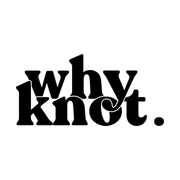
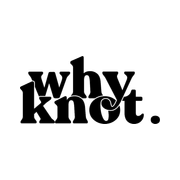
QA pass: fix broken size guide, dead nav links, font optical sizing, OG images, drop unused italic font (-146KB), tune image delivery

Changed region(s): [[0.0833, 0.2778, 0.9167, 0.7222]]

diff --git a/src/components/sections/FooterSection.tsx b/src/components/sections/FooterSection.tsx
@@ -1,5 +1,6 @@
 import Image from "next/image";
 import Link from "next/link";
+import { InstagramIcon, WhatsAppIcon } from "@/components/icons";
 import {
   BUSINESS_NAME,
   INSTAGRAM_HANDLE,
@@ -65,23 +66,29 @@ export function FooterSection() {
             <div className="uppercase text-[11px] tracking-[0.18em] font-semibold text-[var(--an-gold-light)] mb-3">
               Contact
             </div>
-            <a
-              href={`https://wa.me/${WHATSAPP_NUMBER}`}
-              target="_blank"
-              rel="noreferrer"
-              className="block py-1 text-[var(--an-cream)]/70 hover:text-white transition"
-            >
-              WhatsApp us
-            </a>
-            <a
-              href={INSTAGRAM_URL}
-              target="_blank"
-              rel="noreferrer"
-              className="block py-1 text-[var(--an-cream)]/70 hover:text-white transition"
-            >
-              {INSTAGRAM_HANDLE}
-            </a>
-            <div className="py-1 text-[var(--an-cream)]/70">{LOCATION}</div>
+            <div className="flex items-center gap-3 py-1">
+              <a
+                href={`https://wa.me/${WHATSAPP_NUMBER}`}
+                target="_blank"
+                rel="noreferrer"
+                aria-label="Message us on WhatsApp"
+                title="WhatsApp"
+                className="flex h-10 w-10 items-center justify-center rounded-full border border-white/15 text-[var(--an-cream)]/80 transition-colors hover:border-[var(--an-wa)] hover:bg-[var(--an-wa)] hover:text-white"
+              >
+                <WhatsAppIcon className="w-[18px]" />
+              </a>
+              <a
+                href={INSTAGRAM_URL}
+                target="_blank"
+                rel="noreferrer"
+                aria-label={`Follow us on Instagram, ${INSTAGRAM_HANDLE}`}
+                title={INSTAGRAM_HANDLE}
+                className="flex h-10 w-10 items-center justify-center rounded-full border border-white/15 text-[var(--an-cream)]/80 transition-colors hover:border-[var(--an-gold)] hover:bg-[var(--an-gold)] hover:text-white"
+              >
+                <InstagramIcon className="w-[18px]" />
+              </a>
+            </div>
+            <div className="pt-2 text-[var(--an-cream)]/70">{LOCATION}</div>
           </div>
         </div>
         <div className="mt-10 pt-6 border-t border-white/10 flex flex-col md:flex-row gap-2 items-center justify-between text-[11.5px] text-[var(--an-cream)]/50">

diff --git a/src/lib/content.tsx b/src/lib/content.tsx
@@ -12,11 +12,11 @@ export function waLink(message: string) {
 export const PLAN_LINK = waLink("Hello Whyknot! I'd like to order from your collection ✨");
 
 export const NAV_LINKS = [
-  { label: "New In", href: "#shop" },
-  { label: "Dresses", href: "#shop" },
-  { label: "Tees", href: "#shop" },
-  { label: "One Size", href: "#shop" },
-  { label: "Our Story", href: "#story" },
+  { label: "New In", href: "/#shop" },
+  { label: "Dresses", href: "/#shop" },
+  { label: "Tees", href: "/#shop" },
+  { label: "One Size", href: "/#shop" },
+  { label: "Our Story", href: "/#story" },
   { label: "Contact", href: "/contact" },
 ];
 
@@ -69,7 +69,7 @@ export const GOVERNORATES = [
 ];
 
 export const SIZE_GUIDE = [
-  { size: "S", bust: "84-102", waist: "64-84", hips: "90-108" },
+  { size: "One Size", bust: "84-102", waist: "64-84", hips: "90-108" },
   { size: "S", bust: "86", waist: "66", hips: "92" },
   { size: "M", bust: "90", waist: "70", hips: "96" },
   { size: "L", bust: "96", waist: "76", hips: "102" },
@@ -89,25 +89,25 @@ export const FEATURED_CATEGORIES: FeaturedCategory[] = [
   {
     name: "Dresses",
     piece: "Boho Maxi Dresses",
-    startFrom: "$65",
+    startFrom: "$72",
     image: "/images/whyknot/santorini-maxi-coral.jpg",
   },
   {
     name: "Tees",
     piece: "Statement Tees",
-    startFrom: "$32",
+    startFrom: "$42",
     image: "/images/whyknot/evil-eye-tee-white.jpg",
   },
   {
     name: "Shirts",
     piece: "Mimoto Made in Japan",
-    startFrom: "$78",
+    startFrom: "$58",
     image: "/images/whyknot/mimoto-crowd-shirt-sky.jpg",
   },
   {
     name: "Summer",
     piece: "Hats & Loungewear",
-    startFrom: "$28",
+    startFrom: "$38",
     image: "/images/whyknot/sun-hat-blue.jpg",
   },
 ];
@@ -149,7 +149,7 @@ export const PRODUCTS: Product[] = [
         rating: 5,
         date: "February 2026",
         title: "The blue is even prettier in person",
-        text: "Ordered the Aegean Blue after seeing it on their page. Arrived in two days, packed really nicely. Straps are adjustable which helped a lot.",
+        text: "Ordered the Aegean Blue after seeing it on Instagram. Arrived in two days, packed really nicely. Straps are adjustable which helped a lot.",
         size: "L",
       },
       {

diff --git a/src/app/layout.tsx b/src/app/layout.tsx
@@ -7,7 +7,9 @@ const fraunces = Fraunces({
   variable: "--font-cormorant",
   subsets: ["latin"],
   weight: "variable",
-  style: ["normal", "italic"],
+  // No italic face: emphasis is weight + colour (see globals.css), so the
+  // 146KB italic file was downloading on every page and never rendering.
+  style: ["normal"],
   axes: ["SOFT", "WONK", "opsz"],
 });
 
@@ -17,7 +19,10 @@ const dmSans = DM_Sans({
   weight: ["300", "400", "500", "700"],
 });
 
+export const SITE_URL = "https://whyknot-demo.vercel.app";
+
 export const metadata: Metadata = {
+  metadataBase: new URL(SITE_URL),
   title: "Whyknot Clothing | Wear What Moves You",
   description:
     "Curated one-size pieces from Italy and Japan, boho dresses and statement tees, chosen with love in Lebanon. Order in two taps on WhatsApp, cash on delivery.",
@@ -27,10 +32,14 @@ export const metadata: Metadata = {
       "Curated one-size pieces from Italy and Japan, chosen with love in Lebanon. Order in two taps on WhatsApp, cash on delivery.",
     type: "website",
     locale: "en_US",
+    images: [
+      { url: "/seo/og-default.jpg", width: 1200, height: 630, alt: "Whyknot Clothing" },
+    ],
     siteName: BUSINESS_NAME,
   },
   twitter: {
     card: "summary_large_image",
+    images: ["/seo/og-default.jpg"],
     title: "Whyknot Clothing | Wear What Moves You",
     description:
       "Curated one-size pieces from Italy and Japan, chosen with love in Lebanon. Order in two taps on WhatsApp, cash on delivery.",
@@ -43,6 +52,8 @@ const storeSchema = {
   "@context": "https://schema.org",
   "@type": "ClothingStore",
   name: BUSINESS_NAME,
+  url: SITE_URL,
+  image: `${SITE_URL}/seo/og-default.jpg`,
   slogan: "Wear what moves you!",
   description:
     "Curated womenswear boutique in Lebanon: one-size pieces from Italy and Japan, boho dresses and statement tees, delivered across Lebanon with cash on delivery.",

diff --git a/src/app/globals.css b/src/app/globals.css
@@ -101,6 +101,9 @@
   --an-olive: #333333;
   --an-olive-deep: #1c1c1c;
   --an-gold: #b0603c;
+  /* Darker terracotta for small text: #b0603c is only 4.33:1 on cream,
+     which fails WCAG AA for body sizes. Accents/borders keep --an-gold. */
+  --an-gold-text: #94502e;
   --an-gold-light: #e6c3a8;
   --an-terra: #c97a4e;
   --an-wa: #1fb355;
@@ -160,12 +163,26 @@
 @layer utilities {
   .font-display {
     font-family: var(--font-cormorant), serif;
-    /* SOFT + WONK round the terminals so headings echo the chunky wordmark */
+    /* SOFT rounds the terminals so headings echo the chunky wordmark.
+       opsz is deliberately NOT pinned here: Fraunces' optical-size axis runs 9-144,
+       and forcing 144 made small headings (18px review titles) render with
+       display-weight hairlines, cramped and spindly. Leaving it to
+       font-optical-sizing lets each size get the drawing it was designed for.
+       WONK (the quirky alternates) is off by default and switched on only for
+       the very large display moments, where there is room to read it. */
     font-variation-settings:
       "SOFT" 100,
-      "WONK" 1,
-      "opsz" 144;
+      "WONK" 0;
+    font-optical-sizing: auto;
     letter-spacing: -0.005em;
+  }
+
+  /* Big display type: wonky alternates on, echoing the logo's character */
+  .font-display-xl {
+    font-variation-settings:
+      "SOFT" 100,
+      "WONK" 1;
+    font-optical-sizing: auto;
   }
   /* Fraunces' true italic is far lighter than its roman, which reads as a font
      mismatch next to the chunky wordmark. Emphasise with weight + colour instead. */
@@ -251,7 +268,7 @@
     display: inline-block;
     border: 1px solid rgba(35, 35, 35, 0.12);
     background: rgba(255, 255, 255, 0.65);
-    color: var(--an-gold);
+    color: var(--an-gold-text);
     border-radius: 999px;
     padding: 8px 22px;
     font-size: 13px;

diff --git a/src/app/product/[slug]/page.tsx b/src/app/product/[slug]/page.tsx
@@ -9,6 +9,7 @@ import { BenefitsBar } from "@/components/sections/BenefitsBar";
 import { FooterSection } from "@/components/sections/FooterSection";
 import { WhatsAppFloat } from "@/components/sections/WhatsAppFloat";
 import { PRODUCTS } from "@/lib/content";
+import { SITE_URL } from "@/app/layout";
 
 type Props = { params: Promise<{ slug: string }> };
 
@@ -20,9 +21,19 @@ export async function generateMetadata({ params }: Props): Promise<Metadata> {
   const { slug } = await params;
   const product = PRODUCTS.find((p) => p.slug === slug);
   if (!product) return { title: "Whyknot Clothing" };
+  const shortDesc =
+    product.description.length > 90
+      ? `${product.description.slice(0, 90).trimEnd()}...`
+      : product.description;
+
   return {
     title: `${product.name} | Whyknot Clothing`,
     description: `${product.description} Order on WhatsApp, delivered across Lebanon with cash on delivery.`,
+    openGraph: {
+      title: `${product.name} | Whyknot Clothing`,
+      description: shortDesc,
+      images: [{ url: product.image, width: 1200, height: 630, alt: product.name }],
+    },
   };
 }
 
@@ -40,13 +51,14 @@ export default async function ProductPage({ params }: Props) {
     "@type": "Product",
     name: product.name,
     description: product.description,
-    image: product.image,
+    image: `${SITE_URL}${product.image}`,
     brand: { "@type": "Brand", name: "Whyknot Clothing" },
     offers: {
       "@type": "Offer",
       price: product.price.replace("$", ""),
       priceCurrency: "USD",
       availability: "https://schema.org/InStock",
+      url: `${SITE_URL}/product/${product.slug}`,
     },
     aggregateRating: {
       "@type": "AggregateRating",

diff --git a/src/components/sections/HeroShowcase.tsx b/src/components/sections/HeroShowcase.tsx
@@ -21,7 +21,7 @@ export function HeroShowcase() {
         aria-hidden
         className="pointer-events-none absolute inset-x-0 top-[8%] flex justify-center anim-watermark"
       >
-        <span className="font-display lowercase font-black text-[20vw] leading-none text-[#e8ddc7]/70 select-none">
+        <span className="font-display font-display-xl lowercase font-black text-[20vw] leading-none text-[#e8ddc7]/70 select-none">
           whyknot.
         </span>
       </div>
@@ -46,7 +46,8 @@ export function HeroShowcase() {
             alt="The Santorini Maxi from the Whyknot collection"
             fill
             priority
-            sizes="380px"
+            sizes="(max-width: 767px) 300px, 380px"
+            quality={65}
             className="object-cover rounded-t-[14px]"
           />
         </div>
@@ -66,7 +67,8 @@ export function HeroShowcase() {
                 src={p.image}
                 alt={p.name}
                 fill
-                sizes="210px"
+                sizes="(max-width: 767px) 150px, 210px"
+                quality={60}
                 className="object-cover"
               />
               <span className="absolute inset-x-0 bottom-0 bg-gradient-to-t from-black/55 to-transparent p-3 text-left opacity-0 transition-opacity group-hover:opacity-100">

diff --git a/src/components/sections/ProductDetail.tsx b/src/components/sections/ProductDetail.tsx
@@ -11,7 +11,7 @@ export function ProductDetail({ product }: { product: Product }) {
   const [size, setSize] = useState<string | null>(null);
   const [guideOpen, setGuideOpen] = useState(false);
 
-  const orderMessage = `Hello! I'd like to order the ${product.name} in ${color.name}${
+  const orderMessage = `Hello Whyknot! I'd like to order the ${product.name} in ${color.name}${
     size ? `, size ${size}` : ""
   }. Is it available?`;
 
@@ -179,7 +179,7 @@ export function ProductDetail({ product }: { product: Product }) {
               </summary>
               <p className="mt-3 text-[13px] leading-relaxed opacity-75">
                 Delivery across Lebanon in 2 to 4 working days, cash on delivery. Free over $75.
-                Easy exchanges within 7 days, arranged on WhatsApp.
+                Easy exchanges within 3 days, arranged on WhatsApp.
               </p>
             </details>
           </div>

diff --git a/src/components/sections/HeaderSection.tsx b/src/components/sections/HeaderSection.tsx
@@ -17,7 +17,7 @@ const navLinkClass =
 
 export function HeaderSection() {
   const leftLinks = NAV_LINKS.slice(0, 3);
-  const rightLinks = NAV_LINKS.slice(4);
+  const rightLinks = NAV_LINKS.slice(3);
 
   return (
     <div className="sticky top-0 z-50">
@@ -56,8 +56,8 @@ export function HeaderSection() {
             <Image
               src="/images/logo-trimmed.png"
               alt="Whyknot Clothing"
-              width={828}
-              height={401}
+              width={256}
+              height={124}
               priority
               className="h-[52px] md:h-[62px] w-auto object-contain"
             />

diff --git a/src/components/sections/WelcomeOffer.tsx b/src/components/sections/WelcomeOffer.tsx
@@ -103,8 +103,8 @@ export function WelcomeOffer() {
                 </span>
               </div>
               <p className="mt-4 text-[13px] leading-relaxed opacity-70">
-                Use it at checkout on your first order. We&apos;ve also sent it to your inbox so
-                you don&apos;t lose it.
+                Send it with your first order on WhatsApp and we&apos;ll take 10% off. We&apos;ve
+                also sent it to your inbox so you don&apos;t lose it.
               </p>
               <button type="button" onClick={dismiss} className="btn-solid mt-6 w-full">
                 Start Shopping

diff --git a/src/app/contact/page.tsx b/src/app/contact/page.tsx
@@ -23,7 +23,7 @@ export default function ContactPage() {
             Contact
           </p>
           <h1 className="font-display text-[38px] md:text-[56px] font-medium mt-4 leading-[1.1]">
-            We reply <span className="italic text-[var(--an-gold-light)]">fast.</span>
+            We reply <em className=" text-[var(--an-gold-light)]">fast.</em>
           </h1>
           <p className="mt-6 text-[13px] uppercase tracking-[0.16em] text-[var(--an-cream)]/80">
             {LOCATION} · Delivery Across Lebanon

diff --git a/src/components/sections/SplitPromo.tsx b/src/components/sections/SplitPromo.tsx
@@ -26,7 +26,7 @@ export function SplitPromo() {
             Prints that do the talking
           </h2>
           <p className="mt-5 text-[14.5px] leading-relaxed opacity-75 max-w-[440px]">
-            Leopard, kelly green, joyful prints from small makers in Italy and Japan. Pieces
+            Paisley, ikat, kelly green, joyful prints from small makers in Italy and Japan. Pieces
             picked in small batches, so what you wear stays yours.
           </p>
           <div className="mt-7 flex gap-4 flex-wrap">

diff --git a/next.config.ts b/next.config.ts
@@ -1,6 +1,15 @@
 import type { NextConfig } from "next";
 
 const nextConfig: NextConfig = {
+  images: {
+    // 480 fills the gap between 384 and 640: a 150px card at DPR3 needs 450px
+    // and was otherwise fetching 640w.
+    imageSizes: [16, 32, 48, 64, 96, 128, 256, 384, 480],
+    qualities: [45, 60, 65, 75],
+    // Browsers were revalidating every image on every visit.
+    minimumCacheTTL: 2678400,
+    contentDispositionType: "inline",
+  },
   /* config options here */
   output: "standalone",
 };
